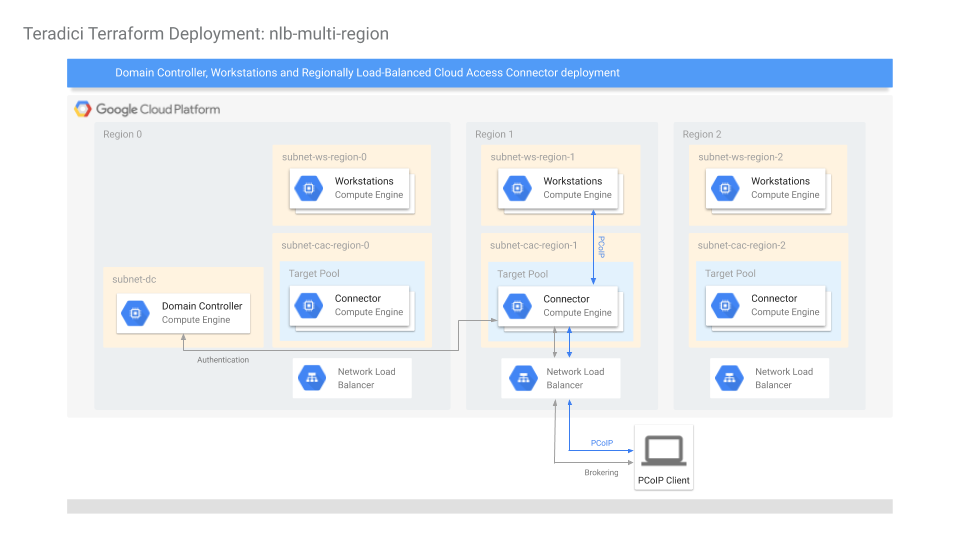
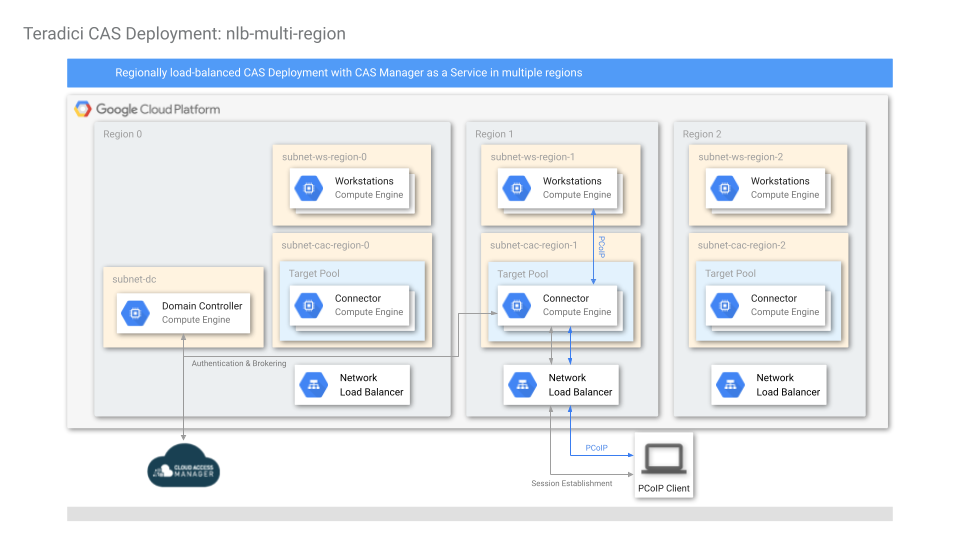
GCP: rebranding CAM [6/6] - update docs

Changed region(s): [[0.0625, 0.237, 0.9375, 0.9778], [0.0625, 0.1185, 0.9375, 0.1778], [0.0938, 0.0296, 0.4062, 0.0889]]

diff --git a/docs/gcp/README.md b/docs/gcp/README.md
@@ -2,63 +2,59 @@
 
 ## Table of Contents
 1. [Introduction](#introduction)
-2. [GCP Quickstart Tutorial](#gcp-quickstart-tutorial)
-3. [Getting Started](#getting-started)
+1. [GCP Quickstart Tutorial](#gcp-quickstart-tutorial)
+1. [Manual Terraform Configuration](#manual-terraform-configuration)
     1. [Requirements](#requirements)
-    2. [GCP Setup](#gcp-setup)
-    3. [Cloud Access Manager Setup](#cloud-access-manager-setup)
-4. [Running Terraform Scripts](#running-terraform-scripts)
+    1. [GCP Setup](#gcp-setup)
+    1. [Selecting a Deployment](#selecting-a-deployment)
+    1. [CAS Manager as a Service Setup](#cas-manager-as-a-service-setup)
     1. [Customizing terraform.tfvars](#customizing-terraform.tfvars)
-    2. [(Optional) Encrypting Secrets](#optional-encrypting-secrets)
+    1. [(Optional) Encrypting Secrets](#optional-encrypting-secrets)
         1. [Encryption Using Python Script](#encryption-using-python-script)
-        2. [Manual Encryption](#manual-encryption)
-    3. [Creating the deployment](#creating-the-deployment)
-    4. [Add Workstations in Cloud Access Manager](#add-workstations-in-cloud-access-manager)
-    5. [Start PCoIP Session](#start-pcoip-session)
-    6. [Changing the deployment](#changing-the-deployment)
-    7. [Deleting the deployment](#deleting-the-deployment)
-5. [Architectures](#architectures)
-    1. [single-connector](#single-connector)
-    2. [multi-region](#multi-region)
-    3. [nlb-multi-region](#nlb-multi-region)
-    4. [dc-only](#dc-only)
-6. [Troubleshooting](#troubleshooting)
+        1. [Manual Encryption](#manual-encryption)
+    1. [Creating the deployment](#creating-the-deployment)
+    1. [Add Workstations in CAS Manager](#add-workstations-in-cas-manager)
+    1. [Start PCoIP Session](#start-pcoip-session)
+    1. [Changing the deployment](#changing-the-deployment)
+    1. [Deleting the deployment](#deleting-the-deployment)
+1. [Troubleshooting](#troubleshooting)
 
 ---
 
 ## Introduction
 
-There are two ways to create a Cloud Access Software deployment using this repository:
-- [__GCP Quickstart Tutorial__](#gcp-quickstart-tutorial): for those who have less experience with the Command Line Interface (CLI) and Terraform, use this tutorial to get a deployment running with the least amount of effort. The quickstart will prepare most of the requirements for the user and call a script to deploy the _single-connector_ deployment using Terraform.
-- [__Running Terraform Scripts__](#running-terraform-scripts): for those who are experienced with the CLI and Terraform, this is the primary way this repository is meant to be used. A user can choose between different types of deployments, variables can be customized, and deployment architecture can be modified to suit the user's needs.
+There are two ways to create a Cloud Access Software (CAS) deployment using this repository:
+- [__GCP Quickstart Tutorial__](#gcp-quickstart-tutorial): for those who have less experience with the Command Line Interface (CLI) and Terraform, use this tutorial to get a deployment running with the least amount of effort by using the [Google Cloud Shell](https://cloud.google.com/shell). The quickstart will prepare most of the requirements for the user and call a script to deploy the _single-connector_ deployment using Terraform.
+- [__Manual Terraform Configuration__](#manual-terraform-configuration): for those who are experienced with the CLI and Terraform, this is the primary way this repository is meant to be used. A user can choose between different types of deployments, variables can be customized, and deployment architecture can be modified to suit the user's needs.
 
 ## GCP Quickstart Tutorial
 
 The quickest way to create a reference deployment on GCP is to run the Quickstart Python script in the Google Cloud Shell. The goal is to automate the creation of a [single-connector deployment](#single-connector) as much as possible by using auto-generated values for required parameters.
 
-Click on the button below to clone this repository in your GCP Cloud Shell and launch the tutorial.
+Click on the button below to clone this repository in your GCP Cloud Shell and launch the tutorial. The tutorial can be found on the panel to the right once the GCP Cloud Shell opens. [This video](https://www.youtube.com/watch?v=lN2GesgvLKA) is also available to guide the viewer through the GCP Quickstart deployment process.
 
 [![Open in Google Cloud Shell](http://gstatic.com/cloudssh/images/open-btn.png)](https://console.cloud.google.com/cloudshell/open?git_repo=https://github.com/teradici/cloud_deployment_scripts&open_in_editor=quickstart/gcp-cloudshell-quickstart.cfg&tutorial=quickstart/tutorial.md)
 
-[This video](https://www.youtube.com/watch?v=lN2GesgvLKA) is also available to guide the viewer through the GCP Quickstart deployment process.
+## Manual Terraform Configuration
 
-## Getting Started
-
-Before starting, consider watching [this video](https://www.youtube.com/watch?v=ESzon04cW4Y) on how to use this repo to deploy a single-connector deployment on GCP from a Linux environment. The video guides the viewer through the entire deployment process from set up to tear down. It also shows how the deployment can be managed through Cloud Access Manager (CAM) and how end-users can connect to their machines using a PCoIP client. While the video shows the single-connector deployment, the process of creating other deployments is very similar. For deployment from a Windows environment, please see the relevant portions of our [AWS video](https://www.youtube.com/watch?v=hwEOoG4pmMQ).
+Before starting, consider watching [this video](https://www.youtube.com/watch?v=ESzon04cW4Y) on how to use this repo to deploy a single-connector deployment on GCP from a Linux environment. The video guides the viewer through the entire deployment process from set up to tear down. It also shows how the deployment can be managed through CAS Manager as a Service (CAS-MS) and how end-users can connect to their machines using a PCoIP client. While the video shows the single-connector deployment, the process of creating other deployments is very similar. For deployment from a Windows environment, please see the relevant portions of our [AWS video](https://www.youtube.com/watch?v=hwEOoG4pmMQ). Note that since this repository is constantly being updated, there might be minor differences between what is shown in the video compared to the latest version on GitHub.
 
 ### Requirements
 - the user must have owner permissions to a GCP project
 - a PCoIP Registration Code is needed. Contact Teradici sales or purchase subscription here: https://www.teradici.com/compare-plans
-- a Cloud Access Manager Deployment Service Account is needed. Please see the Cloud Access Manager Setup section below.
+- for deployments using CAS Manager as a Service, a CAS Manager Deployment Service Account is needed. Please see the [CAS Manager as a Service Setup](#cas-manager-as-a-service-setup) section below.
 - an SSH private / public key pair is required for Terraform to log into Linux hosts. Please visit [ssh-key-pair-setup](/docs/ssh-key-pair-setup.md) for instructions.
-- if SSL is involved, the SSL key and certificate files are needed in PEM format.
-- Terraform v0.13.5 or higher must be installed. Please download Terraform from https://www.terraform.io/downloads.html
+- if custom SSL key and certificates are required, the SSL key and certificate files are needed in PEM format.
+- Terraform v0.13 or higher must be installed. Please download Terraform from https://www.terraform.io/downloads.html
+
+### Selecting a Deployment
+This repository contains Terraform configurations for a number of different CAS deployment types. Please see the the [Deployments](deployments.md) page for a more detailed description of the various deployments.
 
 ### GCP Setup
-Although it is possible to create deployments in existing and currently in-use projects, it is recommended to create them in new projects to reduce chances of name collisions and interfering with operations of existing resources.
+Although it is possible to create deployments in existing and currently in-use GCP projects, it is recommended to create them in new projects to reduce chances of name collisions and interfering with operations of existing resources.
 
 With a new GCP project:
-- create a new service account with __Editor__ and __Cloud KMS CryptoKey Encrypter/Decrypter__ permissions. Create and download the credentials in JSON format. These credentials are needed by CAM to manage the deployment, such as creating workstations, monitoring workstation statuses, and providing power management features.  The credentials are also needed by the Terraform scripts to create the initial deployment.
+- create a new service account with __Editor__ and __Cloud KMS CryptoKey Encrypter/Decrypter__ permissions. Create and download the credentials in JSON format. These credentials are needed by CAS Manager to manage the deployment, such as creating workstations, monitoring workstation statuses, and providing power management features.  The credentials are also needed by the Terraform configuration to create the initial deployment.
 - enable the following APIs in the GCP console or via the command ```gcloud services enable deploymentmanager.googleapis.com cloudkms.googleapis.com cloudresourcemanager.googleapis.com compute.googleapis.com dns.googleapis.com```:
     - Cloud Deployment Manager V2
     - Cloud Key Management Service (KMS)
@@ -67,17 +63,19 @@ With a new GCP project:
     - Google Cloud DNS
 - (Optional) For better security, create a Google KMS key ring and crypto key to encrypt secrets. Please refer to https://cloud.google.com/kms/docs/creating-keys for instructions to create keys.
 
-### Cloud Access Manager Setup
-Login to Cloud Access Manager Admin Console at https://cam.teradici.com using a Google G Suite, Google Cloud Identity, or Microsoft business account.
+### CAS Manager as a Service Setup
 
-1. create a new deployment and submit the credentials for the GCP service account created above.
-2. on the "Edit the Deployment" page, under "Deployment Service Accounts", click on the + icon to create a CAM Deployment Service Account.
-3. click on "Download JSON file" to download the CAM Deployment Service Account credentials file which will be used in terraform.tfvars.
+(for deployments using the CAS Manager as a Service only)
 
-## Running Terraform Scripts
+Follow the steps below to set up a CAS Manager deployment and download CAS Manager Deployment Service Acccount credentials. For deployments using CAS Manager running in a virtual machine, these steps can be skipped because the Terraform configuration will automatically set those up for the user.
+
+1. Login to CAS Manager Admin Console at https://cam.teradici.com using a Google G Suite, Google Cloud Identity, or Microsoft business account.
+2. create a new deployment and submit the credentials for the GCP service account created above.
+3. on the "Edit the Deployment" page, under "Deployment Service Accounts", click on the + icon to create a CAS Manager Deployment Service Account.
+4. click on "Download JSON file" to download the CAS Manager Deployment Service Account credentials file which will be used in terraform.tfvars.
 
 ### Customizing terraform.tfvars
-terraform.tfvars is the file in which a user specify variables for a deployment. In each deployment, there is a ```terraform.tfvars.sample``` file showing the required variables that a user must provide, along with other commonly used but optional variables. Uncommented lines show required variables, while commented lines show optional variables with their default or sample values. A complete list of available variables are described in the variable definition file ```vars.tf``` of the deployment.
+```terraform.tfvars``` is the file in which a user specify variables for a deployment. In each deployment, there is a ```terraform.tfvars.sample``` file showing the required variables that a user must provide, along with other commonly used but optional variables. Uncommented lines show required variables, while commented lines (those beginning with `#`) show optional variables with their default or sample values. A complete list of available variables are described in the variable definition file ```vars.tf``` of the deployment.
 
 Path variables in terraform.tfvars must be absolute and are dependent on the host platform:
 - on Linux systems, the forward slash / is used as the path segment separator. ```gcp_credentials_file = "/path/to/cred.json"```
@@ -86,23 +84,23 @@ Path variables in terraform.tfvars must be absolute and are dependent on the hos
 Save ```terraform.tfvars.sample``` as ```terraform.tfvars``` in the same directory, and fill out the required and optional variables.
 
 ### (Optional) Encrypting Secrets
-terraform.tfvars variables include sensitive information such as Active Directory passwords, PCoIP registration key and the CAM Deployment Service Account credentials file. These secrets are stored in the local files terraform.tfvars and terraform.tfstate, and will also be uploaded as part of provisioning scripts to a Google Cloud Storage bucket.
+terraform.tfvars variables include sensitive information such as Active Directory passwords, PCoIP registration key and the CAS Manager Deployment Service Account credentials file. These secrets are stored in the local files terraform.tfvars and terraform.tfstate, and will also be uploaded as part of provisioning scripts to a Google Cloud Storage bucket.
 
-To enhance security, the Terraform scripts are designed to support both plaintext and KMS-encrypted secrets. Plaintext secrets requires no extra steps, but will be stored in plaintext in the above mentioned locations. It is recommended to encrypt the secrets in the terraform.tfvars file before deploying. Secrets can be encrypted manually first before being entered into terraform.tfvars, or they can be encrypted using a python script located under the tools directory.
+To enhance security, the Terraform configurations are designed to support both plaintext and KMS-encrypted secrets. Plaintext secrets requires no extra steps, but will be stored in plaintext in the above mentioned locations. It is recommended to encrypt the secrets in the terraform.tfvars file before deploying. Secrets can be encrypted manually first before being entered into terraform.tfvars, or they can be encrypted using a Python script located under the tools directory.
 
 #### Encryption Using Python Script
 The easiest way to encrypt secrets is to use the kms_secrets_encryption.py Python script under the tools/ directory, which automates the KMS encryption process. 
-
-1. ensure the `kms_cryptokey_id` variable in terraform.tfvars is commented out, as this script will attempt to create the crypto key used to encrypt the secrets:
+1. First, fill in all the variables in terraform.tfvars, including any sensitive information.
+2. ensure the `kms_cryptokey_id` variable in terraform.tfvars is commented out, as this script will attempt to create the crypto key used to encrypt the secrets:
    ```
    # kms_cryptokey_id = "projects/<project-id>/locations/<location>/keyRings/<keyring-name>/cryptoKeys/<key-name>"
    ```
-2. run the following command inside the tools directory:
+3. run the following command inside the tools directory:
    ```
    ./kms_secrets_encryption.py </path/to/terraform.tfvars>
    ```
 
-The script will replace all the plaintext inside of terraform.tfvars with ciphertext. Any text files specified under the secrets section as a path will also be encrypted. 
+The script will replace all the plaintext secrets in terraform.tfvars with ciphertext. Any text files specified under the secrets section as a path will also be encrypted. 
 
 The script can also reverse the encryption by executing it with the '-d' flag. See script's documentation for details (--help).
 
@@ -118,20 +116,20 @@ Alernatively, the secrets can be manually encrypted. To encrypt secrets using th
    ```
    echo -n <secret> | gcloud kms encrypt --location <location> --keyring <keyring_name> --key <key_name> --plaintext-file - --ciphertext-file - | base64
    ```
-   Encrypt and replace the values of the following variables in terraform.tfvars with the ciphertext generated. `<ciphertext`> should be replaced with the actual ciphertext generated - do not include < and >.
+   Encrypt and replace the values of the variables in the secrets section in terraform.tfvars with the ciphertext generated. For example, `<ciphertext>` below should be replaced with the actual ciphertext generated - do not include < and >.
    ```
    dc_admin_password           = "<ciphertext>"
    safe_mode_admin_password    = "<ciphertext>"
    ad_service_account_password = "<ciphertext>"
    pcoip_registration_code     = "<ciphertext>"
    ```
-4. run the following command in GCP Cloud Shell or a Linux shell with gcloud installed to encrypt the CAM Deployment Service Account JSON credentials file:
+4. run the following command in GCP Cloud Shell or a Linux shell with gcloud installed to encrypt the CAS Manager Deployment Service Account JSON credentials file:
    ```
-   gcloud kms encrypt --location <location> --keyring <keyring-name> --key <key-name> --plaintext-file </path/to/cloud-access-manager-service-account.json> --ciphertext-file </path/to/cloud-access-manager-service-account.json.encrypted>"
+   gcloud kms encrypt --location <location> --keyring <keyring-name> --key <key-name> --plaintext-file </path/to/cas-manager-service-account.json> --ciphertext-file </path/to/cas-manager-service-account.json.encrypted>"
    ```
-   Replace the value of the `cam_deployment_sa_file` variable in terraform.tfvars with the absolute path to the encrypted file generated.
+   Replace the value of the `cas_manager_deployment_sa_file` variable in terraform.tfvars with the absolute path to the encrypted file generated.
    ```
-   cam_deployment_sa_file = "/path/to/cloud-access-manager-service-account.json.encrypted"
+   cas_manager_deployment_sa_file = "/path/to/cas-manager-service-account.json.encrypted"
    ```
 
 ### Creating the deployment
@@ -141,81 +139,19 @@ With the terraform.tfvars file customized:
 2. run ```terraform apply``` to display the resources that will be created by Terraform
 3. answer ```yes``` to start creating the deployment
 
-A typical deployment should take 15 to 30 minutes. When finished, the scripts will display a number of values of interest, such as the load balancer IP address. At the end of the deployment, the resources may still take a few minutes to start up completely. Connectors should register themselves with the CAM service and show up in the CAM Admin Console.
+A typical deployment should take 15 to 30 minutes. When finished, Terraform will display a number of values of interest, such as the load balancer IP address. At the end of the deployment, the resources may still take a few minutes to start up completely. Cloud Access Connectors (CACs) should register themselves with CAS Manager and show up in the Admin Console in CAS Manager.
 
-### Add Workstations in Cloud Access Manager
-Go to the CAM Admin Console and add the newly created workstations using "Add existing remote workstation" in the "Remote Workstations" tab.  Note that it may take a few minutes for the workstation to show up in the "Select workstation from directory" drop-down box.
+### Add Workstations in CAS Manager
+Go to the CAS Manager Admin Console and add the newly created workstations using "Add existing remote workstation" in the "Remote Workstations" tab.  Note that it may take a few minutes for the workstation to show up in the "Select workstation from directory" drop-down box.
 
 ### Start PCoIP Session
-Once the workstations have been added to be managed by CAM and assigned to Active Directory users, a PCoIP user can connect the PCoIP client to the public IP of the Cloud Access Connector or Load Balancer, if one is configured, to start a PCoIP session.
+Once the workstations have been added to be managed by CAS Manager and assigned to Active Directory users, a PCoIP user can connect the PCoIP client to the public IP of the CAC, or Load Balancer if one is configured, to start a PCoIP session.
 
 ### Changing the deployment
-Terraform is a declarative language to describe the desired state of resources. A user can modify terraform.tfvars and run ```terraform apply``` again. Terraform will try to only apply the changes needed to acheive the new state.
-
-Note that changes involving creating or recreating Cloud Access Connectors requires a new connector token from the CAM Admin Console. Create a new connector to obtain a new token.
+Terraform is a declarative language to describe the desired state of resources. A user can modify terraform.tfvars and run ```terraform apply``` again, and Terraform will try to only apply the changes needed to achieve the new state.
 
 ### Deleting the deployment
 Run ```terraform destroy``` to remove all resources created by Terraform.
-
-## Architectures
-This section describes the different types of deployment scenarios supported by Terraform scripts in this repository.
-
-### single-connector
-This is the simplest deployment; it creates a VPC with 3 subnets in the same region. The subnets are
-- ```subnet-dc```: for the Domain Controller
-- ```subnet-cac```: for the Connector
-- ```subnet-ws```: for the workstations
-
-Firewall rules are created to allow wide-open access within the VPC, and selected ports are open to the public for operation and for debug purposes.
-
-A Domain Controller is created with Active Directory, DNS and LDAP-S configured. 2 Domain Admins are set up in the new domain: ```Administrator``` and ```cam_admin``` (default). Domain Users are also created if a ```domain_users_list``` CSV file is specified. The Domain Controller is given a static IP (configurable).
-
-A Cloud Access Connector is created and registers itself with the CAM service with the given CAM Deployment Service Account credentials and PCoIP Registration code.
-
-Domain-joined workstations are optionally created, specified by the following parameters:
-- ```win_gfx_instance_count```: Windows Graphics workstation,
-- ```win_std_instance_count```: Windows Standard workstation,
-- ```centos_gfx_instance_count```: CentOS Graphics workstation, and
-- ```centos_std_instance_count```: CentOS Standard workstation.
-
-These workstations are automatically domain-joined and have the PCoIP Agent installed.  For graphics workstations, NVidia graphics driver are also installed.
-
-![single-connector diagram](single-connector.png)
-
-### multi-region
-
-#### Note: Due to recent changes in how Google Load Balancer process headers, your current Zero Client or Software Client version may need to be updated.  Please contact the maintainer (see below) for help if you have trouble connecting through the Load Balancer. A temporary workaround is to connect to the public IP of the Cloud Access Connector directly, bypassing the Load Balancer.
-
-The difference between single-connector and multi-region deployments is that instead of creating only one Cloud Access Connector, the multi-region deployment creates Cloud Access Connectors in managed instance groups, in one or more GCP regions, behind a single GCP HTTPS Load Balancer. Also, instead of creating workstations in one region, multi-region deployments support deploying workstations to multiple regions.
-
-In this deployment, a client initiates a PCoIP session with the public IP of the HTTPS Load Balancer, and the Load Balancer will select one of the Cloud Access Connectors from a region closest to the client to establish the connection. In-session PCoIP traffic goes through the selected Cloud Access Connector directly, bypassing the HTTPS Load Balancer.
-
-For both the Cloud Access Connectors and workstations, the user must provide a list of regions and zones to create the compute instances in, the CIDRs of subnets for these instances, and the number of instances to create. At least one region and one Cloud Access Connector instance must be specified. Please refer to terraform.tfvars.sample for details.
-
-The following diagram shows a deployment when only a single region is specified by the user.
-
-![multi-connector diagram](single-region.png)
-
-The next diagram shows a deployment with Cloud Access Connectors and workstations specified for 3 regions. A user initiating a PCoIP session with the public IP of the GCP HTTPS Load Balancer will connect to one of the closest Cloud Access Connectors and use GCP's global network to connect to the workstation selected.
-
-![multi-region diagram](multi-region.png)
-
-### nlb-multi-region
-
-The Network load-balanced (NLB) multi-region deployment creates workstations and Cloud Access Connectors in one or more GCP regions. Unlike other deployments, the Cloud Access Connectors in this deployment will not be assigned public IP addresses; instead, clients will connect to their workstations via the public IP address of a regional network load balancer.
-
-Note that this deployment is ideal for clients from different public IP addresses (e.g. in a work from home scenario). This deployment does not scale well for many clients connecting from the same IP address (e.g. employees from the same site) because the load balancer session affinity is based on source IP - which means clients connecting from the same public IP address will be handled by the same instance of Cloud Access Connector.
-
-The user can specify which zones to deploy workstations and which regions to deploy Cloud Access Connectors. Cloud Access Connectors within a region will be spread out across available zones in the region, and will form a target pool behind a GCP external Network Load Balancer with a public IP.
-
-![nlb-multi-region diagram](nlb-multi-region.png)
-
-### dc-only
-A simple deployment of one Domain Controller, intended for testing Domain Controller operations.
-
-Creates one VPC, one subnet and a single Domain Controller with ports opened
-for ICMP, RDP and WinRM.  Domain Controller is configured with Acitve
-Directory, DNS, LDAP-S.  One AD Service Account is also created.
 
 ## Troubleshooting
 Please visit the [Troubleshooting](/docs/troubleshooting.md) page for further instructions.

diff --git a/docs/gcp/deployments.md b/docs/gcp/deployments.md
@@ -1,0 +1,115 @@
+# GCP Deployment Types
+
+## Table of Contents
+
+1. [Overview](#overview)
+1. [single-connector](#single-connector)
+1. [cas-mgr-single-connector](#cas-mgr-single-connector)
+1. [multi-region](#multi-region)
+1. [cas-mgr-multi-region](#cas-mgr-multi-region)
+1. [nlb-multi-region](#nlb-multi-region)
+1. [cas-mgr-nlb-multi-region](#cas-mgr-nlb-multi-region)
+1. [dc-only](#dc-only)
+
+---
+
+## Overview
+
+This repository contains a number of CAS deployments architectures on GCP. The tables below compare major differences between the deployments. Note that the deployments in the second table are essentially the same as those in the first table; the difference bewteen them is how each CAS deployment is managed:
+1. using CAS Manager as a Service (CAS-MS), which is a SaaS run by Teradici (first table), or
+2. running the CAS Manager (CAS-M) in a virtual machine that a user controls in his or her own CAS deployment (second table)
+
+Using CAS Manager as a Service run by Teradici allows a user to rely on Teradici for running and maintaining the CAS Manager without additional costs. Running the CAS Manager in a virtual machine, on the other hand, gives the user full control of CAS deployment; the CAS deployment will not have to reach out to the internet for CAS management features, but the user is resonsible for costs, security, updates, high availability and maintenance of the virtual machine running CAS Manager.
+
+| | single-connector | multi-region | nlb-multi-region |
+| --- | --- | --- | --- |
+| Description | Great for quick proof of concept. Only has one Connector in one region, limiting scalability.  | A global deployment supporting multiple Connectors in multiple regions running behind a global load balancer.  Each Connector is on a public subnet with its own public IP. PCoIP clients can access the deployment via a single global entry point. | A global deployment supporting multiple Connectors in multiple regions running behind regional load balancers.  Connectors are in private subnets without direct exposure to the internet. PCoIP clients can access the deployment via regional entry points. |
+| # of Regions Supported | 1 | 1 or more | 1 or more |
+| # of Connectors | 1 | 1 or more per region | 1 or more per region |
+| # of PCoIP Entry Points | 1 (single Virtual Machine) | 1 (Global Load Balancer) | 1 per region (Regional Network Load Balancer) |
+| CAS Manager | as a Service | as a Service | as a Service |
+
+| | cas-mgr-single-connector | cas-mgr-multi-region | cas-mgr-nlb-multi-region |
+| --- | --- | --- | --- |
+| Description | Great for quick proof of concept. Only has one Connector in one region, limiting scalability.  | A global deployment supporting multiple Connectors in multiple regions running behind a global load balancer.  Each Connector is on a public subnet with its own public IP. PCoIP clients can access the deployment via a single global entry point. | A global deployment supporting multiple Connectors in multiple regions running behind regional load balancers.  Connectors are in private subnets without direct exposure to the internet. PCoIP clients can access the deployment via regional entry points. |
+| # of Regions Supported | 1 | 1 or more | 1 or more |
+| # of Connectors | 1 | 1 or more per region | 1 or more per region |
+| # of PCoIP Entry Points | 1 (single Virtual Machine) | 1 (Global Load Balancer) | 1 per region (Regional Network Load Balancer) |
+| CAS Manager | Virtual Machine | Virtual Machine | Virtual Machine |
+
+## single-connector
+
+This is the simplest CAS deployment which uses CAS Manager as a Service; it creates a VPC with 3 subnets in the same region. The subnets are
+- ```subnet-dc```: for the Domain Controller
+- ```subnet-cac```: for the Connector
+- ```subnet-ws```: for the workstations
+
+Firewall rules are created to allow wide-open access within the VPC, and selected ports are open to the public for operation and for debug purposes.
+
+A Domain Controller is created with Active Directory, DNS and LDAP-S configured. Two Domain Admins are set up in the new domain: ```Administrator``` and ```cas_admin```. Domain Users are also created if a ```domain_users_list``` CSV file is specified. The Domain Controller is given a static internal IP (configurable) and public IP.
+
+A Cloud Access Connector is created and registers itself with the CAS Manager with the given CAS Manager Deployment Service Account credentials and PCoIP Registration code.
+
+Domain-joined workstations are optionally created, specified by the following parameters:
+- ```win_gfx_instance_count```: Windows Graphics workstation,
+- ```win_std_instance_count```: Windows Standard workstation,
+- ```centos_gfx_instance_count```: CentOS Graphics workstation, and
+- ```centos_std_instance_count```: CentOS Standard workstation.
+
+These workstations are automatically domain-joined and have the PCoIP Agent installed.  For graphics workstations, NVidia graphics drivers are also installed.
+
+![single-connector diagram](single-connector.png)
+
+## cas-mgr-single-connector
+
+This deployment is essentially the same as [single-connector](#single-connector), except instead of using CAS Manager as a Service provided by Teradici, the CAS deployment is managed by CAS Manager installed in a virtual machine in the ```subnet-cas-mgr``` subnet.
+
+![cas-mgr-single-connector diagram](cas-mgr-single-connector.png)
+
+## multi-region
+
+#### Note: Due to recent changes in how Google Load Balancer process headers, your current Zero Client or Software Client version may need to be updated.  Please contact the maintainer (see below) for help if you have trouble connecting through the Load Balancer. A temporary workaround is to connect to the public IP of the Cloud Access Connector directly, bypassing the Load Balancer.
+
+The difference between [single-connector](#single-connector) and multi-region deployments is that instead of creating only one Cloud Access Connector, the multi-region deployment creates Cloud Access Connectors in managed instance groups, in one or more GCP regions, behind a single GCP Global HTTPS Load Balancer. Also, instead of creating workstations in one region, multi-region deployments support deploying workstations to multiple regions.
+
+In this deployment, a client initiates a PCoIP session with the public IP of the Global HTTPS Load Balancer, and the Global HTTPS Load Balancer will select one of the Cloud Access Connectors from a region closest to the client to establish the connection. In-session PCoIP traffic goes through the selected Cloud Access Connector directly, bypassing the Global HTTPS Load Balancer.
+
+The user can specify which zones to deploy workstations and which regions to deploy Cloud Access Connectors. Cloud Access Connectors within a region will be deployed as a Managed Instance Group with each instance spread out across available zones in the region.
+
+The following diagram shows a deployment when only a single region is specified by the user.
+
+![multi-region (single region) diagram](multi-region-single.png)
+
+The next diagram shows a deployment with Cloud Access Connectors and workstations specified for 3 regions. A user initiating a PCoIP session with the public IP of the GCP HTTPS Load Balancer will connect to one of the closest Cloud Access Connectors and use GCP's global network to connect to the workstation selected.
+
+![multi-region diagram](multi-region.png)
+
+## cas-mgr-multi-region
+
+This deployment is essentially the same as [multi-region](#multi-region), except instead of using CAS Manager as a Service provided by Teradici, the CAS deployment is managed by CAS Manager installed in a virtual machine in the ```subnet-cas-mgr``` subnet.
+
+![cas-mgr-multi-region (single region) diagram](cas-mgr-multi-region-single.png)
+
+![cas-mgr-multi-region (single region) diagram](cas-mgr-multi-region.png)
+
+## nlb-multi-region
+
+The Network load-balanced (NLB) multi-region deployment creates workstations and Cloud Access Connectors in one or more GCP regions. Unlike other deployments, the Cloud Access Connectors in this deployment will not be assigned public IP addresses; instead, clients will connect to their workstations via the public IP address of a regional network load balancer.
+
+Note that this deployment is ideal for clients connecting from different public IP addresses (e.g. in a work from home scenario). This deployment does not scale well for many clients connecting from the same IP address (e.g. employees from the same site) because the load balancer session affinity is based on source IP - which means clients connecting from the same public IP address will be handled by the same instance of Cloud Access Connector.
+
+The user can specify which zones to deploy workstations and which regions to deploy Cloud Access Connectors. Cloud Access Connectors within a region will be spread out across available zones in the region, and will form a target pool behind a GCP external Network Load Balancer with a public IP.
+
+![nlb-multi-region diagram](nlb-multi-region.png)
+
+## cas-mgr-nlb-multi-region
+
+This deployment is essentially the same as [nlb-multi-region](#nlb-multi-region), except instead of using CAS Manager as a Service provided by Teradici, the CAS deployment is managed by CAS Manager installed in a virtual machine in the ```subnet-cas-mgr``` subnet.
+
+![cas-mgr-nlb-multi-region diagram](cas-mgr-nlb-multi-region.png)
+
+## dc-only
+
+A simple deployment of one Domain Controller, intended for testing Domain Controller operations.
+
+Creates one VPC, one subnet and a single Domain Controller with ports opened for ICMP, RDP and WinRM.  Domain Controller is configured with Acitve Directory, DNS, LDAP-S.  One AD Service Account is also created.

diff --git a/docs/troubleshooting.md b/docs/troubleshooting.md
@@ -83,17 +83,17 @@ Password: <dc_admin_password_set_in_terraform.tfvars>
 
 | VM Instance      | Login User    | Log File Path                               | Description                                                 |
 | :--------------- | :------------ | :------------------------------------------ | :---------------------------------------------------------- |
-| cac              | cam_admin     | /var/log/syslog                             | Detailed system log for startup and provisioning            |
+| cac              | cas_admin     | /var/log/syslog                             | Detailed system log for startup and provisioning            |
 |                  |               | /var/log/teradici/provisioning.log          | Detailed log for provisioning script                        |
 |                  |               | /var/log/teradici/cac-install.log           | Detailed log for CAC installation                           |
 |                  |               | /var/log/cloud-init-output.log              | Console output log (duplicate log from provisioning.log)    |
 |                  |               | /var/log/cloud-access-connector/install.log | (duplicate log from cac-install.log)                        |
-| centos-gfx       | cam_admin     | /var/log/messages.log                       | Combined detailed system log for startup and provisioning   |
+| centos-gfx       | cas_admin     | /var/log/messages.log                       | Combined detailed system log for startup and provisioning   |
 |                  |               | /var/log/teradici/provisioning.log          | Detailed log for Bash provisioning script                   |
 |                  |               | /var/log/yum.log                            | Yum log file (duplicate log from messages.log)              |
 |                  |               | /var/log/pcoip-agent/agent.log              | PCoIP agent log file                                        |
 |                  |               | /var/log/nvidia-installer.log               | Detailed log for NVIDIA driver installation                 |
-| centos-std       | cam_admin     | /var/log/messages.log                       | Combined detailed system log for startup and provisioning   |
+| centos-std       | cas_admin     | /var/log/messages.log                       | Combined detailed system log for startup and provisioning   |
 |                  |               | /var/log/teradici/provisioning.log          | Detailed log for Bash provisioning script                   |
 |                  |               | /var/log/yum.log                            | Yum log file (duplicate log from messages.log)              |
 |                  |               | /var/log/pcoip-agent/agent.log              | PCoIP agent log file                                        |
